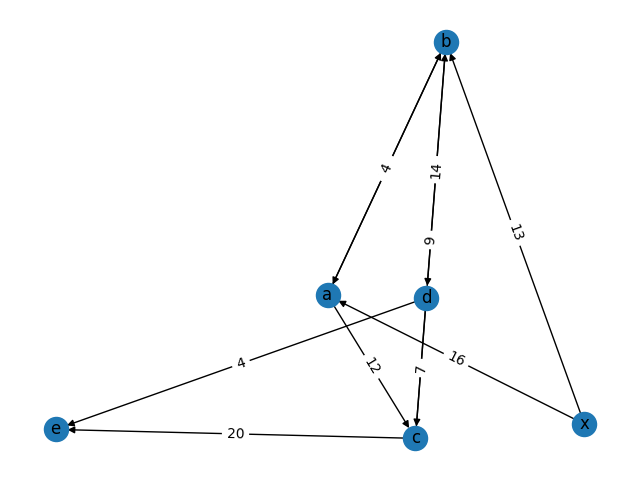
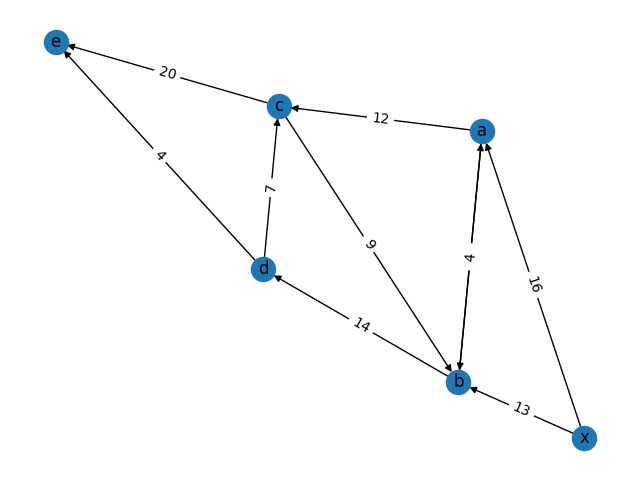
PLAY - CHUNG HA, CHANGMO

diff --git a/templates/resultado.html b/templates/resultado.html
@@ -7,7 +7,18 @@
   <a> </a>
   <div class="form">
     <h1> O Fluxo máximo para as entradas é {{ flow}} <h1>
-    <a href="/">Voltar</a>
   </div>
 </div>
+
+<div>
+  <h2> Grafo Original</h2>
+ <IMG class="resuts"src="../static/Graph.png" alt="Grafo">
+</div>
+<div>
+<h2> Grafo do fluxo máximo</h2>
+<IMG class="resuts"src="../static/Graph2.png" alt="Grafo">
+</div>
+<button>
+  <a href="/">Voltar</a>
+</button>
 {% endblock %}

diff --git a/static/css/main.css b/static/css/main.css
@@ -41,3 +41,9 @@ IMG.displayed {
     margin-right: auto;
     width: 110%;
 }
+
+IMG.resuts {
+    margin-left: auto;
+    margin-right: auto;
+    width: 500px;
+}

diff --git a/app.py b/app.py
@@ -1,10 +1,22 @@
 from flask import Flask, render_template, url_for, request, redirect, send_file
-
+import time
 import matplotlib.pyplot as plt
 import os
 import networkx as nx
 from networkx.algorithms.flow import dinitz
+from networkx.generators.community import random_partition_graph
+from networkx.generators.geometric import random_geometric_graph
 from dinic import MaxFlow
+from random import randrange
+
+
+lista = []
+lista.append("x")
+lista.append("a")
+lista.append("b")
+lista.append("c")
+lista.append("d")
+lista.append("e")
 C = [[ 0, 16, 13, 0, 0, 0 ],
      [ 0, 0, 10, 12, 0, 0 ], 
      [ 0, 4, 0, 0, 14, 0 ], 
@@ -21,6 +33,7 @@ def index():
     print()
     path = os.path.abspath(__file__).strip('app.py')
     save = path + '/static/Graph.png'
+    save2 = path + '/static/Graph2.png'
     try:
         if(os.path.exists(save)):
             os.remove(save)
@@ -40,26 +53,53 @@ def index():
     G.add_edge("d", "c", capacity=7);
     G.add_edge("d", "e", capacity=4);
 
-    pos=nx.spring_layout(G) 
+    seed = randrange(700)
+    pos=nx.spring_layout(G, seed=seed)
+
     nx.draw(G,pos, with_labels = True,)
     labels = nx.get_edge_attributes(G,'capacity')
-    nx.draw_networkx_edge_labels(G,pos,edge_labels=labels)
+    nx.draw_networkx_edge_labels(G,pos, edge_labels=labels)
     plt.savefig(save, format="PNG")
     
     if request.method == 'POST':
         data = request.form.to_dict()
         try:
-            test = MaxFlow(C,int(data['content0']),int(data['content2']))
-            print (test)
+            R = dinitz(G, lista[int(data['content0'])], lista[int(data['content2'])])
+            flow_value = nx.maximum_flow_value(G, lista[int(data['content0'])], lista[int(data['content2'])])
+            if (flow_value == R.graph["flow_value"]):
+                test = R.graph["flow_value"]
+            else:
+                test = MaxFlow(C,int(data['content0']),int(data['content2']))
+            
+            
+            tes = list(nx.maximum_flow(G, lista[int(data['content0'])], lista[int(data['content2'])]))[1:]
+            
+            try:
+                if(os.path.exists(save)):
+                    os.remove(save2)
+            except:
+                pass
+            N = nx.DiGraph()
+            for d in tes:
+                for k, v in d.items():
+                    for k1, v1 in v.items():
+                        N.add_edge(k, k1, capacity=int(v1));
+            figure = plt.figure()
+            nx.draw(N,pos, with_labels = True,)
+            labels = nx.get_edge_attributes(N,'capacity')
+            nx.draw_networkx_edge_labels(N,pos,edge_labels=labels)
+            plt.savefig(save2, format="PNG")
+
+
+            return render_template('resultado.html', flow = str(test))
         except nx.NetworkXError:
-            pass       
+            return render_template('erro.html', erro = "Parametros inválidos") 
         
-        return render_template('resultado.html', flow = str(test))
 
     else:
         return render_template('index.html')
 
 if __name__ == "__main__":
-    app.run(debug=True)
+    app.run(debug=False)
 
 

diff --git a/server.py b/server.py
@@ -1,17 +1,16 @@
 from flask import Flask, render_template, url_for, request, redirect, send_file
 
 import matplotlib.pyplot as plt
-from io import BytesIO
 import os
 import networkx as nx
 from networkx.algorithms.flow import dinitz
 from dinic import MaxFlow
-C = [[ 0, 16, 13, 0, 0, 0 ],  # s
-     [ 0, 0, 10, 12, 0, 0 ],  # o
-     [ 0, 4, 0, 0, 14, 0 ],  # p
-     [ 0, 0, 9, 0, 0, 20 ],  # q
-     [ 0, 0, 0, 7, 0, 4],  # r
-     [ 0, 0, 0, 0, 0, 3 ]]  # t
+C = [[ 0, 16, 13, 0, 0, 0 ],
+     [ 0, 0, 10, 12, 0, 0 ], 
+     [ 0, 4, 0, 0, 14, 0 ], 
+     [ 0, 0, 9, 0, 0, 20 ],
+     [ 0, 0, 0, 7, 0, 4],  
+     [ 0, 0, 0, 0, 0, 3 ]]  
 
 app=Flask(__name__)
 
@@ -20,14 +19,13 @@ def index():
     figure = plt.figure()
     path2 = os.getcwdb();
     print()
-    path = os.path.abspath(__file__).strip('server.py')
+    path = os.path.abspath(__file__).strip('app.py')
     save = path + '/static/Graph.png'
     try:
         if(os.path.exists(save)):
             os.remove(save)
     except:
         pass
-
 
     G = nx.DiGraph()
 
@@ -41,6 +39,7 @@ def index():
     G.add_edge("c", "e", capacity=20);
     G.add_edge("d", "c", capacity=7);
     G.add_edge("d", "e", capacity=4);
+
     pos=nx.spring_layout(G) 
     nx.draw(G,pos, with_labels = True,)
     labels = nx.get_edge_attributes(G,'capacity')
@@ -55,7 +54,7 @@ def index():
         except nx.NetworkXError:
             pass       
         
-        return render_template('resultado.html', flow = str(test), entrada="x", sainda="y")
+        return render_template('resultado.html', flow = str(test))
 
     else:
         return render_template('index.html')
